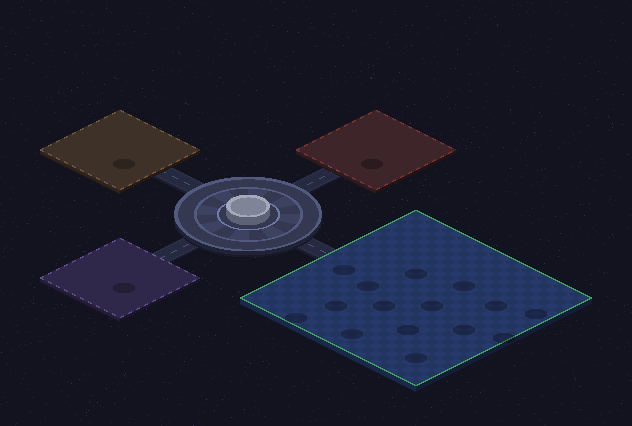
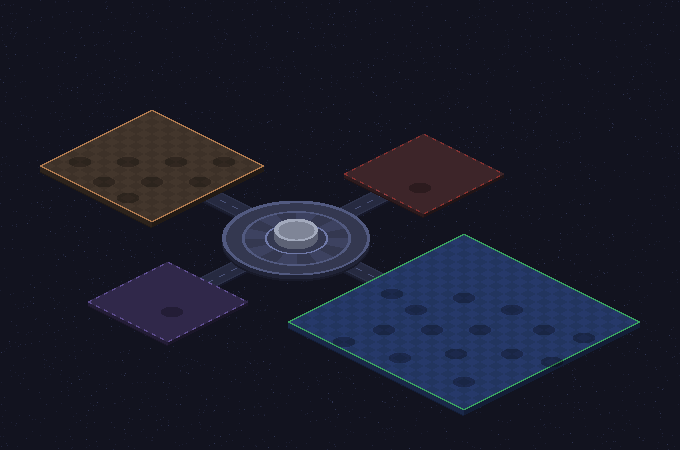
Apre il quartiere Università: 8 skill e la Biblioteca Notion

Changed region(s): [[0.0601, 0.2441, 0.962, 0.9155], [0.7215, 0.5493, 0.8117, 0.6103]]

diff --git a/citta.js b/citta.js
@@ -16,11 +16,17 @@ const INFRA = {
                desc: "I documenti ufficiali delle società quotate: 10-K, 10-Q e 8-K." },
   pacchetto: { nome: "Pacchetto trader", colore: "#3aa35f", edificio: null, titolo: "Pacchetto trader", segno: "cravatta verde",
                desc: "La configurazione comune in trader/config.json." },
+  notion:    { nome: "Connettore Notion", colore: "#eceef3", edificio: "biblioteca", titolo: "Biblioteca Notion", segno: "toppa bianca con la N",
+               desc: "Il connettore Notion: le skill con la toppa cercano nelle tue pagine e ci salvano report, wiki e decisioni." },
+  pptx:      { nome: "Skill pptx", colore: "#d24726", edificio: null, titolo: "Skill pptx", segno: "mini diapositiva arancio",
+               desc: "Il file .pptx lo crea la skill pptx di Anthropic: academic-pptx decide contenuto e struttura delle slide." },
 };
-const EDIFICIO_INFRA = { torre: "dati", banca: "broker", archivio: "edgar" };
+const EDIFICIO_INFRA = { torre: "dati", banca: "broker", archivio: "edgar", biblioteca: "notion" };
 const MODI = { "Comando /": "#ff9e6b", "Caricata da Claude": "#b49cff", "Script": "#3fc8e4" };
 const LIVELLI = [0.5, 1, 1.5, 2, 2.5, 3, 4];
-const SOTTO = new Set(["finanza", "municipio"]);       // cartellini da mettere sotto il quartiere
+// cartellini da mettere sotto il quartiere: sotto l'angolo in basso, o sotto il lato sinistro
+// (l'Università, per non coprire il Municipio)
+const CARTELLINO = { finanza: "sotto", universita: "sinistra", municipio: "sotto" };
 
 let M, D, SF, AT, ATS;              // mondo, dati, sfondo, atlante, atlante "addormentato"
 let OGGI, DURATA_ANIM;
@@ -498,9 +504,10 @@ function costruisciEtichette() {
         ? `${membri.length} skill · <span class="on">${oggi} attive oggi</span> · ${chiamate} chiamate`
         : `in costruzione · ${membri.length} prototipo`}</span></span>`;
     el.addEventListener("click", () => { seleziona({ tipo: "distretto", id: k }); inquadraDistretto(k); });
-    // sotto il quartiere se in alto c'è qualcosa (la torre, la piazza), altrimenti sopra
-    const p = d.poligono, sotto = SOTTO.has(k);
-    etichetta(el, () => sotto ? [p[2][0], p[2][1] + 12] : [p[0][0], p[0][1] - 40], { sotto });
+    // sotto il quartiere se in alto c'è qualcosa (la torre, la biblioteca, la piazza), altrimenti sopra
+    const p = d.poligono, dove = CARTELLINO[k], sotto = !!dove;
+    const q = dove === "sinistra" ? [p[2][0] + (p[3][0] - p[2][0]) / 3, p[2][1] + (p[3][1] - p[2][1]) / 3] : p[2];
+    etichetta(el, () => sotto ? [q[0], q[1] + 12] : [p[0][0], p[0][1] - 40], { sotto });
   }
   const pz = document.createElement("div");
   pz.className = "cartellino piazza";
